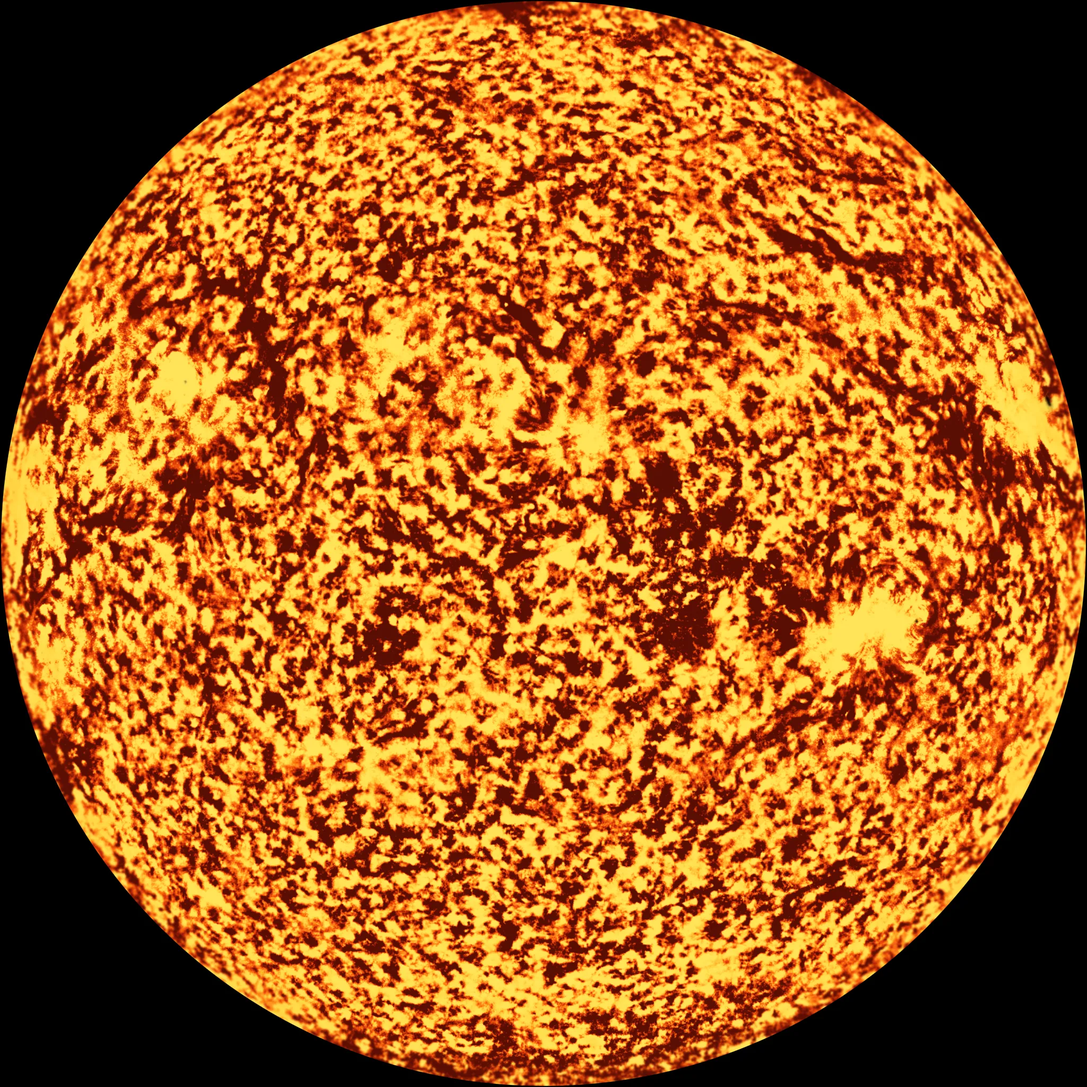
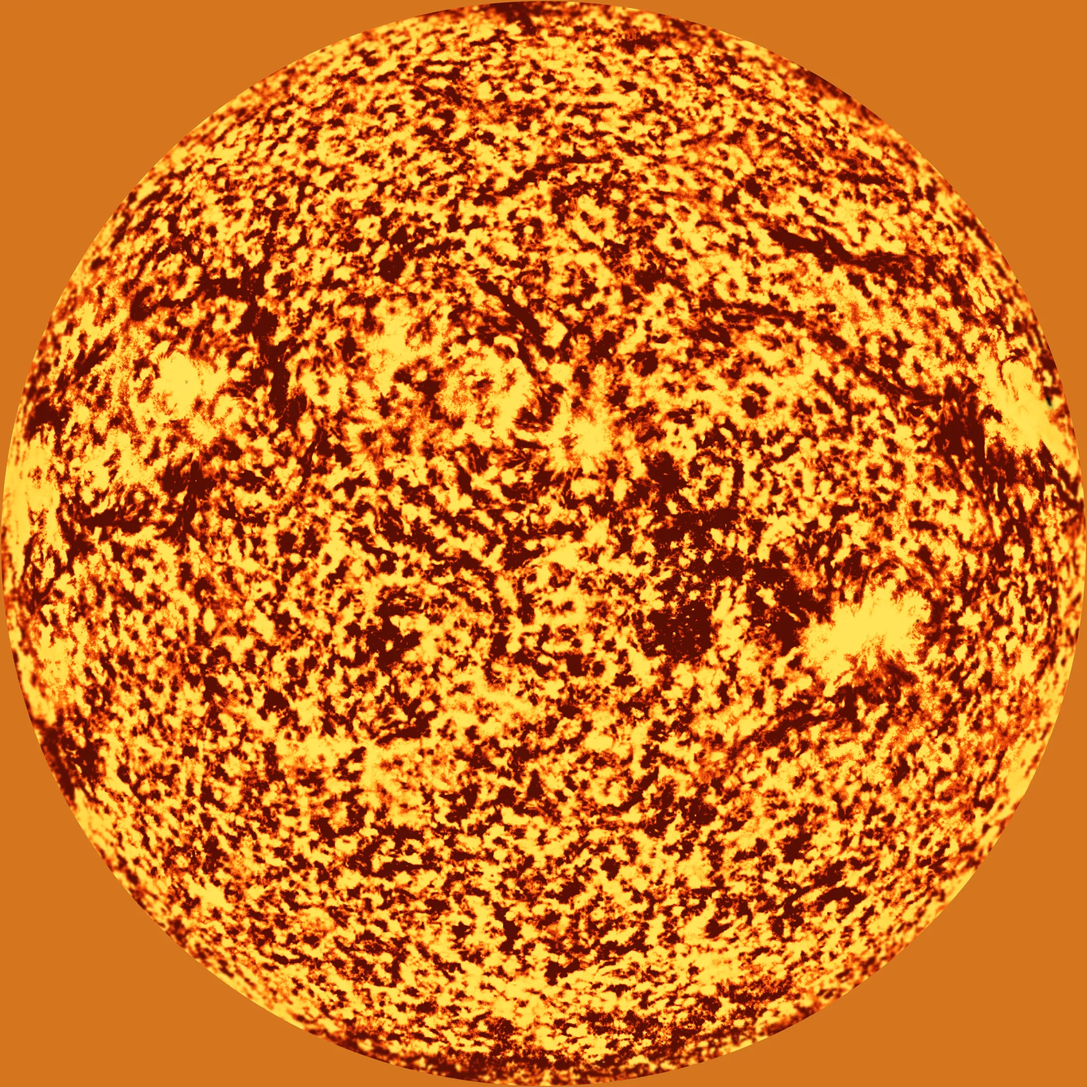
Sun: limb fill so the cap never samples black; 72s surface rotation; boiling fibrils, flickering plage, livelier prominences; SW cache bump

diff --git a/a/ms23.js b/a/ms23.js
@@ -1,6 +1,6 @@
-(()=>{var F=`#ifdef GL_FRAGMENT_PRECISION_HIGH
+(()=>{var B=`#ifdef GL_FRAGMENT_PRECISION_HIGH
 precision highp float;
 #else
 precision mediump float;
 #endif
-`,q="attribute vec3 p;attribute vec2 t;uniform mat4 M,P;varying vec2 u;varying vec3 pm,w,nw;void main(){vec4 q=M*vec4(p,1.);w=q.xyz;pm=p;nw=mat3(M)*p;u=t;gl_Position=P*q;}",ue=F+"varying vec2 u;varying vec3 pm,w,nw;uniform sampler2D T,NX,NY;uniform float hn,rl;uniform vec3 S,E;uniform mat3 RM;void main(){vec3 R=normalize(pm);vec3 c=texture2D(T,u).rgb;vec3 Np=R;if(hn>.5){vec3 e=normalize(vec3(R.z,0.,-R.x)+vec3(1e-4,0.,0.));vec3 nn=cross(R,e);float gx=(texture2D(NX,u).r*2.-1.)*.3*rl,gy=(texture2D(NY,u).r*2.-1.)*.3*rl;Np=normalize(R-gx*e-gy*nn);}vec3 Ng=normalize(RM*R),Nw=normalize(RM*Np);vec3 L=normalize(S-w),V=normalize(E-w);float d0=dot(Ng,L),d=dot(Nw,L);float lam=max(d,0.);float mu=max(dot(Nw,V),0.)+.03;float ls=2.*lam/(lam+mu);float li=mix(lam,ls,.6)*smoothstep(-.09,.07,d0);vec3 col=c*(li*1.18+.012)+vec3(.012,.017,.03)*(1.-smoothstep(-.12,.3,d0));gl_FragColor=vec4(col,1.);}",Q="float h31(vec3 p){p=fract(p*.1031);p+=dot(p,p.yzx+33.33);return fract((p.x+p.y)*p.z);}float vn(vec3 p){vec3 i=floor(p),f=fract(p);f=f*f*(3.-2.*f);return mix(mix(mix(h31(i),h31(i+vec3(1.,0.,0.)),f.x),mix(h31(i+vec3(0.,1.,0.)),h31(i+vec3(1.,1.,0.)),f.x),f.y),mix(mix(h31(i+vec3(0.,0.,1.)),h31(i+vec3(1.,0.,1.)),f.x),mix(h31(i+vec3(0.,1.,1.)),h31(i+vec3(1.,1.,1.)),f.x),f.y),f.z);}";var fe=F+"varying vec2 u;varying vec3 pm,w,nw;uniform vec3 E,C;uniform float tm,hn,rad,sd;uniform sampler2D T;"+Q+"vec3 pal(float x){x=clamp(x,0.,1.);vec3 a=mix(vec3(.55,.10,.02),vec3(.98,.38,.06),smoothstep(0.,.46,x));a=mix(a,vec3(1.,.62,.12),smoothstep(.45,.72,x));return mix(a,vec3(1.,.88,.32),smoothstep(.72,.96,x));}void main(){vec3 P=normalize(pm);vec3 N=normalize(w-C);vec3 Cd0=normalize(E-C);vec3 up0=abs(Cd0.y)<.93?vec3(0.,1.,0.):vec3(1.,0.,0.);vec3 rt=normalize(cross(up0,Cd0));vec3 Cd=sd>0.01?normalize(Cd0*cos(sd)+rt*sin(sd)):Cd0;float mu=dot(N,Cd);float muC=dot(N,Cd0);vec3 up=abs(Cd.y)<.93?vec3(0.,1.,0.):vec3(1.,0.,0.);vec3 X=normalize(cross(up,Cd));vec3 Y=cross(Cd,X);vec2 dsk=vec2(dot(N,X),dot(N,Y));float fb=vn(P*9.+vec3(0.,0.,tm*.02));if(mu<.7) fb=fb*.28+vn(P*22.+vec3(1.7,0.,0.))*.32+vn(P*48.+vec3(0.,2.1,tm*.015))*.25+vn(P*80.+vec3(3.1,1.2,0.))*.15;vec3 c=pal(.46+fb*.24);if(hn>.5){vec2 uv=dsk*(.5/max(rad,.5))+.5;uv.y=1.-uv.y;float inuv=step(0.001,uv.x)*step(uv.x,.999)*step(0.001,uv.y)*step(uv.y,.999);vec3 tx=texture2D(T,uv).rgb;float on=smoothstep(-.22,.62,mu)*inuv;tx*=1.+(vn(P*18.+vec3(tm*.03,0.,0.))-.5)*.05;c=mix(c,tx,on);}float q=1.-clamp(muC,0.,1.);c*=1.+vec3(.20,.16,.04)*q;c+=vec3(1.,.82,.28)*pow(q,2.6)*.5+vec3(1.,.7,.18)*pow(q,8.)*.32;c=c/(vec3(1.)+c*.12);c=min(c,vec3(1.,.94,.55));gl_FragColor=vec4(c,1.);}",me="attribute vec3 p;attribute vec2 t;uniform mat4 M,P;uniform vec3 C,X,Y;uniform float s;varying vec2 u;void main(){u=t*2.-1.;vec3 q=C+(X*u.x+Y*u.y)*s;gl_Position=P*M*vec4(q,1.);}",pe=F+"varying vec2 u;uniform float tm,al,sz,pe;"+Q+"float h11(float x){return fract(sin(x*127.1+1.7)*43758.545);}vec3 prom(float ang,float e,float fi){float T=17.+fi*9.;float ph=tm/T+fi*.37;float cy=floor(ph);float f=fract(ph);float on=step(.4,h11(cy*3.1+fi*11.3));float a0=h11(cy*5.7+fi*2.9)*6.2831853;float w=.12+.1*h11(cy*1.9+fi);float H=.15+.3*h11(cy*7.3+fi*4.1);float env=smoothstep(0.,.22,f)*(1.-smoothstep(.62,1.,f));float grow=.35+.65*smoothstep(0.,.55,f);float da=mod(ang-a0+3.14159265,6.2831853)-3.14159265;float x=da/w;float ax=abs(x);if(ax>1.2)return vec3(0.);float y=max(H*grow*(1.-x*x),.001);float ins=step(ax,1.)*step(0.,e);float th=.011+.016*(1.-ax)+.01*env;float band=(1.-smoothstep(0.,th,abs(e-y)))*ins;float fill=(1.-smoothstep(0.,y,e))*ins*.3*(1.-ax);float strand=.55+.45*vn(vec3(da*55.,e*38.,tm*.35+fi));float foot=exp(-max(e,0.)*22.)*exp(-pow((ax-1.)*w*9.,2.))*env;return (vec3(1.,.32,.1)*(band*1.5*strand+fill)+vec3(1.,.82,.55)*foot*(.65+.35*sin(tm*8.+fi)))*env*on;}void main(){float rr=length(u)*sz;float e=rr-1.;if(e<-.03){gl_FragColor=vec4(0.);return;}float ang=atan(u.y,u.x);vec2 ca=vec2(cos(ang),sin(ang));float glow=exp(-e*2.6)*.6+exp(-e*.75)*.15+exp(-e*9.)*.55;float n1=vn(vec3(ca*2.2,tm*.05)),n2=vn(vec3(ca*5.+7.,tm*.09)),n3=vn(vec3(ca*13.+3.,tm*.16));float ray=pow(clamp(n1*.5+n2*.35+n3*.25,0.,1.),2.4)*2.2;float fl=.82+.18*sin(tm*.9+n2*12.);glow+=ray*fl*(exp(-e*1.1)*.45+exp(-e*.35)*.1);vec3 col=vec3(1.,.64,.24)*glow+vec3(1.,.9,.7)*exp(-e*14.)*.3;if(e<1.15&&pe>.5){col+=prom(ang,e,0.)+prom(ang,e,1.)+prom(ang,e,2.)+prom(ang,e,3.);}col*=smoothstep(.0,.06,e+.03)*smoothstep(1.,.8,length(u))*al;gl_FragColor=vec4(col,max(col.r,max(col.g,col.b)));}",j=4.6,l=null,I=null,U=null,D=null,P=!1,y=null,g=null,A=null,w=2,h=16.7,L=0,C=0,K=new URLSearchParams(location.search),de=K.get("dprcap")?Math.max(1,Math.min(3,+K.get("dprcap")||2)):0,ee=()=>de||w,te=e=>{if(L){let n=e-L;n<100&&(h=h*.93+n*.07)}L=e,h>24?++C>45&&w>1&&(w=Math.max(1,w-.25),C=0,h=16.7):C=0},N=(e,n,t)=>{let r=e.createProgram(),o=!0,s={p:r,bad:!1};for(let[u,m]of[[e.VERTEX_SHADER,n],[e.FRAGMENT_SHADER,t]]){let x=e.createShader(u);if(e.shaderSource(x,m),e.compileShader(x),!e.getShaderParameter(x,e.COMPILE_STATUS)){o=!1;try{console.warn("ms23 shader",e.getShaderInfoLog(x))}catch(S){}}e.attachShader(r,x)}if(e.linkProgram(r),e.getProgramParameter(r,e.LINK_STATUS)||(o=!1),!o)return s.bad=!0,s;let f=e.getProgramParameter(r,e.ACTIVE_UNIFORMS);for(let u=0;u<f;u++){let m=e.getActiveUniform(r,u);s[m.name]=e.getUniformLocation(r,m.name)}return s.ap=e.getAttribLocation(r,"p"),s.at=e.getAttribLocation(r,"t"),s},R=(e,n,t)=>{let r=e.createBuffer(),o=t?e.ELEMENT_ARRAY_BUFFER:e.ARRAY_BUFFER;return e.bindBuffer(o,r),e.bufferData(o,n,e.STATIC_DRAW),r},G=e=>{l=e,I=N(e,q,ue),U=N(e,q,fe),D=N(e,me,pe);let n=128,t=64,r=[],o=[];for(let s=0;s<=t;s++){let f=Math.PI/2-s*Math.PI/t;for(let u=0;u<=n;u++){let m=-Math.PI+u*2*Math.PI/n;r.push(Math.cos(f)*Math.sin(m),Math.sin(f),Math.cos(f)*Math.cos(m),u/n,s/t)}}for(let s=0;s<t;s++)for(let f=0;f<n;f++){let u=s*(n+1)+f,m=u+n+1;o.push(u,m,u+1,u+1,m,m+1)}y={v:R(e,new Float32Array(r)),i:R(e,new Uint16Array(o),!0),n:o.length},g={v:R(e,new Float32Array([0,0,0,0,0,0,0,0,1,0,0,0,0,1,1,0,0,0,0,1])),i:R(e,new Uint16Array([0,1,2,0,2,3]),!0)};try{A=e.getExtension("EXT_texture_filter_anisotropic")||e.getExtension("WEBKIT_EXT_texture_filter_anisotropic")}catch(s){A=null}(I.bad||U.bad||D.bad)&&(P=!0);try{i.im&&Y(e)}catch(s){}},O=(e,n,t)=>{e.bindBuffer(e.ARRAY_BUFFER,t.v),e.enableVertexAttribArray(n.ap),e.vertexAttribPointer(n.ap,3,e.FLOAT,!1,20,0),n.at>=0&&(e.enableVertexAttribArray(n.at),e.vertexAttribPointer(n.at,2,e.FLOAT,!1,20,12)),e.bindBuffer(e.ELEMENT_ARRAY_BUFFER,t.i)},B=(e,n)=>{e.disableVertexAttribArray(n.ap),n.at>=0&&e.disableVertexAttribArray(n.at)},v={base:{t:null,st:0,url:"a/tx/moon.webp",mip:!1},m2:{t:null,st:0,url:"a/tx/moon/m2.webp",mip:!0},hd:{t:null,st:0,url:"a/tx/moon/hd.webp",mip:!0},nx:{t:null,st:0,url:"a/tx/moon/nx.webp",mip:!0},ny:{t:null,st:0,url:"a/tx/moon/ny.webp",mip:!0}},$=0;window.__moonTexBytes=0;var _=e=>{let n=v[e];if(n.st||!l)return;n.st=1;let t=l,r=new Image;r.decoding="async",r.crossOrigin="anonymous",r.onload=()=>{let o=t.createTexture();t.activeTexture(t.TEXTURE0),t.bindTexture(t.TEXTURE_2D,o),t.pixelStorei(t.UNPACK_FLIP_Y_WEBGL,!1),t.pixelStorei(t.UNPACK_PREMULTIPLY_ALPHA_WEBGL,!1),t.texImage2D(t.TEXTURE_2D,0,t.RGBA,t.RGBA,t.UNSIGNED_BYTE,r),t.texParameteri(t.TEXTURE_2D,t.TEXTURE_WRAP_S,n.mip?t.REPEAT:t.CLAMP_TO_EDGE),t.texParameteri(t.TEXTURE_2D,t.TEXTURE_WRAP_T,t.CLAMP_TO_EDGE),n.mip?(t.generateMipmap(t.TEXTURE_2D),t.texParameteri(t.TEXTURE_2D,t.TEXTURE_MIN_FILTER,t.LINEAR_MIPMAP_LINEAR),A&&t.texParameterf(t.TEXTURE_2D,A.TEXTURE_MAX_ANISOTROPY_EXT,4)):t.texParameteri(t.TEXTURE_2D,t.TEXTURE_MIN_FILTER,t.LINEAR),t.texParameteri(t.TEXTURE_2D,t.TEXTURE_MAG_FILTER,t.LINEAR),n.t=o,n.st=2,window.__moonTex=Object.keys(v).filter(s=>v[s].st===2);try{window.__spaceRedraw&&window.__spaceRedraw()}catch(s){}},r.onerror=()=>{n.st=3},r.src=n.url;try{fetch(n.url,{method:"HEAD"}).then(o=>{$+=+(o.headers.get("content-length")||0),window.__moonTexBytes=$}).catch(()=>{})}catch(o){}},T=e=>v[e].st===2&&!!v[e].t,i={t:null,st:0,date:"",json:null,im:null},J={ru:["января","февраля","марта","апреля","мая","июня","июля","августа","сентября","октября","ноября","декабря"],uk:["січня","лютого","березня","квітня","травня","червня","липня","серпня","вересня","жовтня","листопада","грудня"],en:["January","February","March","April","May","June","July","August","September","October","November","December"]},le=(e,n)=>{let t=(e||"").slice(0,10).split("-");if(t.length<3)return e||"";let r=t[0],o=Math.max(1,Math.min(12,+t[1]))-1,s=String(+t[2]),f=(J[n]||J.ru)[o];return`${s} ${f} ${r}`},ve=(e,n)=>{let t=le(n,e);return e==="uk"?`Плями — знімок NASA SDO від ${t}`:e==="en"?`Sunspots — NASA SDO image from ${t}`:`Пятна — снимок NASA SDO от ${t}`},xe=()=>{try{let e=(document.documentElement.lang||"ru").slice(0,2);return e==="uk"||e==="en"?e:"ru"}catch(e){return"ru"}},X=()=>{let e=i.json&&(i.json.date||i.json.utc)||i.date;if(!e)return;let n=document.querySelector('.body23[data-k="sun"]');if(!n)return;let t=n.querySelector(".sun-sdo");if(!t){t=document.createElement("div"),t.className="sun-sdo",t.setAttribute("data-r","sdo"),t.style.cssText="color:#9aa4b5;font-size:12px;line-height:1.4;margin-top:8px";let r=n.querySelector(".b23-desc");r&&r.parentNode?r.parentNode.insertBefore(t,r.nextSibling):n.appendChild(t)}t.textContent=ve(xe(),e)},Y=e=>{if(i.st===2||!i.im||!i.im.complete||!i.im.naturalWidth)return;let n=e.createTexture();e.activeTexture(e.TEXTURE0),e.bindTexture(e.TEXTURE_2D,n),e.pixelStorei(e.UNPACK_FLIP_Y_WEBGL,!1),e.pixelStorei(e.UNPACK_PREMULTIPLY_ALPHA_WEBGL,!1),e.texImage2D(e.TEXTURE_2D,0,e.RGBA,e.RGBA,e.UNSIGNED_BYTE,i.im),e.texParameteri(e.TEXTURE_2D,e.TEXTURE_WRAP_S,e.CLAMP_TO_EDGE),e.texParameteri(e.TEXTURE_2D,e.TEXTURE_WRAP_T,e.CLAMP_TO_EDGE),e.texParameteri(e.TEXTURE_2D,e.TEXTURE_MIN_FILTER,e.LINEAR),e.texParameteri(e.TEXTURE_2D,e.TEXTURE_MAG_FILTER,e.LINEAR),i.t=n,i.st=2,X();try{window.__spaceRedraw&&window.__spaceRedraw()}catch(t){}},W=()=>{if(setInterval(X,1200),i.st)return;i.st=1;let e=n=>{i.json=n||{},i.date=n&&(n.date||n.utc)||"",window.__sunToday=i.json,X();let t=new Image;t.decoding="async",t.crossOrigin="anonymous",t.onload=()=>{i.im=t,l&&Y(l)},t.onerror=()=>{i.st=3},t.src="a/sun_today.webp?d="+encodeURIComponent(i.date||String(Date.now()))};try{fetch("a/sun_today.json?t="+Date.now(),{cache:"no-store"}).then(n=>n.ok?n.json():{}).then(e).catch(()=>e({}))}catch(n){i.st=3}},Z=()=>(l&&i.im&&i.st!==2&&i.st!==3&&Y(l),i.st===2&&!!i.t),Ee=e=>{let n=Math.hypot(e[0],e[1],e[2])||1;return new Float32Array([e[0]/n,e[1]/n,e[2]/n,e[4]/n,e[5]/n,e[6]/n,e[8]/n,e[9]/n,e[10]/n])},_e=performance.now(),ne=()=>(performance.now()-_e)/1e3;function re(e,n){if(l||G(e),P||l!==e)return!1;te(performance.now()),_("base"),(n.r>22||n.foc)&&_("m2"),(n.r>64||n.foc)&&(_("hd"),_("nx"),_("ny"));let t=T("hd")?v.hd:T("m2")?v.m2:T("base")?v.base:null;if(!t)return!1;let r=T("nx")&&T("ny"),o=I;return e.useProgram(o.p),O(e,o,y),e.uniformMatrix4fv(o.M,!1,n.M),e.uniformMatrix4fv(o.P,!1,n.VP),e.uniformMatrix3fv(o.RM,!1,Ee(n.M)),e.uniform3fv(o.S,n.sun),e.uniform3fv(o.E,n.eye),e.uniform1f(o.hn,r?1:0),e.uniform1f(o.rl,1.6),e.uniform1i(o.T,0),e.uniform1i(o.NX,1),e.uniform1i(o.NY,2),e.activeTexture(e.TEXTURE0),e.bindTexture(e.TEXTURE_2D,t.t),r&&(e.activeTexture(e.TEXTURE1),e.bindTexture(e.TEXTURE_2D,v.nx.t),e.activeTexture(e.TEXTURE2),e.bindTexture(e.TEXTURE_2D,v.ny.t)),e.drawElements(e.TRIANGLES,y.n,e.UNSIGNED_SHORT,0),B(e,o),e.activeTexture(e.TEXTURE0),!0}function oe(e,n){if(l||G(e),P||l!==e)return!1;te(performance.now());let t=U;e.useProgram(t.p),O(e,t,y),e.uniformMatrix4fv(t.M,!1,n.M),e.uniformMatrix4fv(t.P,!1,n.VP),e.uniform3fv(t.E,n.eye),e.uniform3f(t.C,n.M[12],n.M[13],n.M[14]),e.uniform1f(t.tm,ne()),e.uniform1f(t.hn,Z()?1:0),e.uniform1f(t.rad,i.json&&i.json.disc||.998);let r=window.__sunCapSide;return e.uniform1f(t.sd,r===!0?1.22:typeof r=="number"?r:0),e.uniform1i(t.T,0),Z()&&(e.activeTexture(e.TEXTURE0),e.bindTexture(e.TEXTURE_2D,i.t)),e.drawElements(e.TRIANGLES,y.n,e.UNSIGNED_SHORT,0),B(e,t),!0}function ae(e,n){if(l||G(e),P||l!==e)return!1;let t=D;return e.useProgram(t.p),O(e,t,g),e.uniform3fv(t.C,n.C),e.uniform3fv(t.X,n.X),e.uniform3fv(t.Y,n.Y),e.uniform1f(t.s,n.R*j),e.uniform1f(t.sz,j),e.uniform1f(t.pe,n.r<6?0:1),e.uniform1f(t.tm,ne()),e.uniform1f(t.al,1),e.uniformMatrix4fv(t.M,!1,n.V),e.uniformMatrix4fv(t.P,!1,n.P),e.blendFunc(e.ONE,e.ONE),e.depthMask(!1),e.drawElements(e.TRIANGLES,6,e.UNSIGNED_SHORT,0),e.depthMask(!0),e.blendFunc(e.ONE,e.ONE_MINUS_SRC_ALPHA),B(e,t),!0}var ie=!1,c=window;function z(){if(ie)return;let e=document.querySelector(".sp23-cv");if(!e||!e.parentElement){let a=new MutationObserver(()=>{document.querySelector(".sp23-cv")&&(a.disconnect(),z())});a.observe(document.documentElement,{childList:!0,subtree:!0});return}ie=!0;let n=e.parentElement,t=new Set,r=null,o=null,s=()=>c.__spaceMode&&c.__spaceMode!=="map",f=a=>{let p=n.getBoundingClientRect();return[a.clientX-p.left,a.clientY-p.top]},u=a=>{if(a.replayed)return;a.replayed=!0;let p=a.down,d=new PointerEvent("pointerdown",{pointerId:p.pointerId,pointerType:p.pointerType,isPrimary:p.isPrimary,clientX:p.clientX,clientY:p.clientY,bubbles:!0,cancelable:!0,pressure:p.pressure});d.__ms=!0,e.dispatchEvent(d)},m=()=>{let a=c.__selNow&&c.__selNow();a&&a.kind==="body"&&a.id&&c.__openBodyCard&&(c.__openBodyCard(),c.__cardDbl=(c.__cardDbl||0)+1)},x=()=>{c.__closeBodyCard&&c.__closeBodyCard()};n.addEventListener("pointerdown",a=>{if(a.target!==e||a.__ms||!s())return;if(t.add(a.pointerId),t.size>1){r&&u(r),r=null,o=null;return}let[p,d]=f(a),E=performance.now();r={id:a.pointerId,x0:a.clientX,y0:a.clientY,t0:E,sw:!1,replayed:!1,down:a},o&&E-o.t<280&&Math.hypot(p-o.x,d-o.y)<32&&(r.sw=!0,a.stopImmediatePropagation(),a.preventDefault())},!0),n.addEventListener("pointermove",a=>{r&&r.sw&&!r.replayed&&a.pointerId===r.id&&Math.hypot(a.clientX-r.x0,a.clientY-r.y0)>10&&u(r)},!0);let S=(a,p)=>{t.delete(a.pointerId);let d=r;if(!d||d.id!==a.pointerId)return;r=null;let E=performance.now(),ce=Math.hypot(a.clientX-d.x0,a.clientY-d.y0)>10,V=!p&&!ce&&E-d.t0<350&&t.size===0;if(d.sw&&!d.replayed){a.stopImmediatePropagation(),o=null,V&&m();return}if(d.replayed){o=null;return}if(V){let[k,H]=f(a);o={t:E,x:k,y:H},window.setTimeout(()=>{try{if(c.__spaceMode!=="focus")return;let M=c.__spaceFocusK&&c.__spaceFocusK(),b=M&&c.__spacePos&&c.__spacePos()[M];b&&Math.hypot(k-b[0],H-b[1])<=b[2]*1.05&&x()}catch(M){}},0)}else o=null};n.addEventListener("pointerup",a=>S(a,!1),!0),n.addEventListener("pointercancel",a=>S(a,!0),!0)}function se(e,n){let t=c.__spaceSwipe,r=!!t&&t!==c.__ms23sw&&t[1]===e;c.__ms23sw=t,r&&n?c.__openBodyCard&&c.__openBodyCard():c.__closeBodyCard&&c.__closeBodyCard()}window.__ms23={moon:re,sun:oe,corona:ae,dpr:ee,afterPick:se,v:2};W&&W();z();})();
+`,$="attribute vec3 p;attribute vec2 t;uniform mat4 M,P;varying vec2 u;varying vec3 pm,w,nw;void main(){vec4 q=M*vec4(p,1.);w=q.xyz;pm=p;nw=mat3(M)*p;u=t;gl_Position=P*q;}",me=B+"varying vec2 u;varying vec3 pm,w,nw;uniform sampler2D T,NX,NY;uniform float hn,rl;uniform vec3 S,E;uniform mat3 RM;void main(){vec3 R=normalize(pm);vec3 c=texture2D(T,u).rgb;vec3 Np=R;if(hn>.5){vec3 e=normalize(vec3(R.z,0.,-R.x)+vec3(1e-4,0.,0.));vec3 nn=cross(R,e);float gx=(texture2D(NX,u).r*2.-1.)*.3*rl,gy=(texture2D(NY,u).r*2.-1.)*.3*rl;Np=normalize(R-gx*e-gy*nn);}vec3 Ng=normalize(RM*R),Nw=normalize(RM*Np);vec3 L=normalize(S-w),V=normalize(E-w);float d0=dot(Ng,L),d=dot(Nw,L);float lam=max(d,0.);float mu=max(dot(Nw,V),0.)+.03;float ls=2.*lam/(lam+mu);float li=mix(lam,ls,.6)*smoothstep(-.09,.07,d0);vec3 col=c*(li*1.18+.012)+vec3(.012,.017,.03)*(1.-smoothstep(-.12,.3,d0));gl_FragColor=vec4(col,1.);}",te="float h31(vec3 p){p=fract(p*.1031);p+=dot(p,p.yzx+33.33);return fract((p.x+p.y)*p.z);}float vn(vec3 p){vec3 i=floor(p),f=fract(p);f=f*f*(3.-2.*f);return mix(mix(mix(h31(i),h31(i+vec3(1.,0.,0.)),f.x),mix(h31(i+vec3(0.,1.,0.)),h31(i+vec3(1.,1.,0.)),f.x),f.y),mix(mix(h31(i+vec3(0.,0.,1.)),h31(i+vec3(1.,0.,1.)),f.x),mix(h31(i+vec3(0.,1.,1.)),h31(i+vec3(1.,1.,1.)),f.x),f.y),f.z);}";var pe=B+"varying vec2 u;varying vec3 pm,w,nw;uniform vec3 E,C,Cp,Up;uniform float tm,hn,rad,sp;uniform sampler2D T;"+te+"vec3 pal(float x){x=clamp(x,0.,1.);vec3 a=mix(vec3(.55,.10,.02),vec3(.98,.38,.06),smoothstep(0.,.46,x));a=mix(a,vec3(1.,.62,.12),smoothstep(.45,.72,x));return mix(a,vec3(1.,.88,.32),smoothstep(.72,.96,x));}vec3 rA(vec3 v,vec3 a,float g){float c=cos(g),s=sin(g);return v*c+cross(a,v)*s+a*dot(a,v)*(1.-c);}void main(){vec3 P=normalize(pm);vec3 N=normalize(w-C);vec3 Cd0=normalize(E-C);float muC=dot(N,Cd0);vec3 Upn=normalize(Up);vec3 Cd=rA(normalize(Cp),Upn,sp);float mu=dot(N,Cd);vec3 ref=abs(dot(Upn,Cd))>.93?vec3(1.,0.,0.):Upn;vec3 X=normalize(cross(ref,Cd));vec3 Y=cross(Cd,X);vec2 dsk=vec2(dot(N,X),dot(N,Y));vec2 fl=vec2(vn(P*3.1+vec3(tm*.12,0.,0.)),vn(P*3.1+vec3(5.2,tm*.09,0.)));vec3 Pw=normalize(P+vec3((fl-0.5)*0.18,0.));float fb=vn(Pw*12.+vec3(0.,0.,tm*.08));if(mu<.4) fb=fb*.28+vn(Pw*28.+vec3(1.7,tm*.07,0.))*.32+vn(Pw*56.+vec3(0.,2.1,tm*.13))*.25+vn(Pw*90.+vec3(3.1,tm*.05,0.))*.15;vec3 c=pal(.36+fb*.42);if(hn>.5){vec2 uv=dsk*(.5/max(rad*.995,.5))+.5;uv.y=1.-uv.y;uv+=(fl-0.5)*0.006;float inuv=step(0.002,uv.x)*step(uv.x,.998)*step(0.002,uv.y)*step(uv.y,.998);vec3 tx=texture2D(T,uv).rgb;float hi=smoothstep(.45,.85,dot(tx,vec3(.35,.5,.15)));tx*=mix(1.,1.+(vn(P*7.+vec3(tm*.28,0.,0.))-0.5)*.12,hi);c=mix(c,tx,smoothstep(-.40,.02,mu)*inuv);}float q=1.-clamp(muC,0.,1.);c*=1.+vec3(.20,.16,.04)*q;c+=vec3(1.,.82,.28)*pow(q,2.6)*.5+vec3(1.,.7,.18)*pow(q,8.)*.32;c=c/(vec3(1.)+c*.12);c=min(c,vec3(1.,.94,.55));gl_FragColor=vec4(c,1.);}",de="attribute vec3 p;attribute vec2 t;uniform mat4 M,P;uniform vec3 C,X,Y;uniform float s;varying vec2 u;void main(){u=t*2.-1.;vec3 q=C+(X*u.x+Y*u.y)*s;gl_Position=P*M*vec4(q,1.);}",le=B+"varying vec2 u;uniform float tm,al,sz,pe;"+te+"float h11(float x){return fract(sin(x*127.1+1.7)*43758.545);}vec3 prom(float ang,float e,float fi){float T=17.+fi*9.;float ph=tm/T+fi*.37;float cy=floor(ph);float f=fract(ph);float on=step(.22,h11(cy*3.1+fi*11.3));float a0=h11(cy*5.7+fi*2.9)*6.2831853;float w=.12+.1*h11(cy*1.9+fi);float H=.18+.32*h11(cy*7.3+fi*4.1);float env=smoothstep(0.,.22,f)*(1.-smoothstep(.62,1.,f));float grow=.35+.65*smoothstep(0.,.55,f);float da=mod(ang-a0+3.14159265,6.2831853)-3.14159265;float x=da/w;float ax=abs(x);if(ax>1.2)return vec3(0.);float y=max(H*grow*(1.-x*x),.001);float ins=step(ax,1.)*step(0.,e);float th=.011+.016*(1.-ax)+.01*env;float band=(1.-smoothstep(0.,th,abs(e-y)))*ins;float fill=(1.-smoothstep(0.,y,e))*ins*.3*(1.-ax);float strand=.55+.45*vn(vec3(da*55.,e*38.,tm*.35+fi));float foot=exp(-max(e,0.)*22.)*exp(-pow((ax-1.)*w*9.,2.))*env;return (vec3(1.,.32,.1)*(band*1.5*strand+fill)+vec3(1.,.82,.55)*foot*(.65+.35*sin(tm*8.+fi)))*env*on;}void main(){float rr=length(u)*sz;float e=rr-1.;if(e<-.03){gl_FragColor=vec4(0.);return;}float ang=atan(u.y,u.x);vec2 ca=vec2(cos(ang),sin(ang));float glow=exp(-e*2.6)*.6+exp(-e*.75)*.15+exp(-e*9.)*.55;float n1=vn(vec3(ca*2.2,tm*.07)),n2=vn(vec3(ca*5.+7.,tm*.13)),n3=vn(vec3(ca*13.+3.,tm*.22));float ray=pow(clamp(n1*.5+n2*.35+n3*.25,0.,1.),2.4)*2.2;float fl=.82+.18*sin(tm*.9+n2*12.);glow+=ray*fl*(exp(-e*1.1)*.45+exp(-e*.35)*.1);vec3 col=vec3(1.,.64,.24)*glow+vec3(1.,.9,.7)*exp(-e*14.)*.3;if(e<1.15&&pe>.5){col+=prom(ang,e,0.)+prom(ang,e,1.)+prom(ang,e,2.)+prom(ang,e,3.);}col*=smoothstep(.0,.06,e+.03)*smoothstep(1.,.8,length(u))*al;gl_FragColor=vec4(col,max(col.r,max(col.g,col.b)));}",J=4.6,l=null,D=null,X=null,F=null,S=!1,y=null,ne=null,M=null,R=2,h=16.7,N=0,U=0,Z=new URLSearchParams(location.search),ve=Z.get("dprcap")?Math.max(1,Math.min(3,+Z.get("dprcap")||2)):0,re=()=>ve||R,oe=e=>{if(N){let n=e-N;n<100&&(h=h*.93+n*.07)}N=e,h>24?++U>45&&R>1&&(R=Math.max(1,R-.25),U=0,h=16.7):U=0},I=(e,n,t)=>{let r=e.createProgram(),o=!0,s={p:r,bad:!1};for(let[c,m]of[[e.VERTEX_SHADER,n],[e.FRAGMENT_SHADER,t]]){let x=e.createShader(c);if(e.shaderSource(x,m),e.compileShader(x),!e.getShaderParameter(x,e.COMPILE_STATUS)){o=!1;try{console.warn("ms23 shader",e.getShaderInfoLog(x))}catch(L){}}e.attachShader(r,x)}if(e.linkProgram(r),e.getProgramParameter(r,e.LINK_STATUS)||(o=!1),!o)return s.bad=!0,s;let f=e.getProgramParameter(r,e.ACTIVE_UNIFORMS);for(let c=0;c<f;c++){let m=e.getActiveUniform(r,c);s[m.name]=e.getUniformLocation(r,m.name)}return s.ap=e.getAttribLocation(r,"p"),s.at=e.getAttribLocation(r,"t"),s},w=(e,n,t)=>{let r=e.createBuffer(),o=t?e.ELEMENT_ARRAY_BUFFER:e.ARRAY_BUFFER;return e.bindBuffer(o,r),e.bufferData(o,n,e.STATIC_DRAW),r},Y=e=>{l=e,D=I(e,$,me),X=I(e,$,pe),F=I(e,de,le);let n=128,t=64,r=[],o=[];for(let s=0;s<=t;s++){let f=Math.PI/2-s*Math.PI/t;for(let c=0;c<=n;c++){let m=-Math.PI+c*2*Math.PI/n;r.push(Math.cos(f)*Math.sin(m),Math.sin(f),Math.cos(f)*Math.cos(m),c/n,s/t)}}for(let s=0;s<t;s++)for(let f=0;f<n;f++){let c=s*(n+1)+f,m=c+n+1;o.push(c,m,c+1,c+1,m,m+1)}y={v:w(e,new Float32Array(r)),i:w(e,new Uint16Array(o),!0),n:o.length},ne={v:w(e,new Float32Array([0,0,0,0,0,0,0,0,1,0,0,0,0,1,1,0,0,0,0,1])),i:w(e,new Uint16Array([0,1,2,0,2,3]),!0)};try{M=e.getExtension("EXT_texture_filter_anisotropic")||e.getExtension("WEBKIT_EXT_texture_filter_anisotropic")}catch(s){M=null}(D.bad||X.bad||F.bad)&&(S=!0);try{i.im&&V(e)}catch(s){}},z=(e,n,t)=>{e.bindBuffer(e.ARRAY_BUFFER,t.v),e.enableVertexAttribArray(n.ap),e.vertexAttribPointer(n.ap,3,e.FLOAT,!1,20,0),n.at>=0&&(e.enableVertexAttribArray(n.at),e.vertexAttribPointer(n.at,2,e.FLOAT,!1,20,12)),e.bindBuffer(e.ELEMENT_ARRAY_BUFFER,t.i)},W=(e,n)=>{e.disableVertexAttribArray(n.ap),n.at>=0&&e.disableVertexAttribArray(n.at)},v={base:{t:null,st:0,url:"a/tx/moon.webp",mip:!1},m2:{t:null,st:0,url:"a/tx/moon/m2.webp",mip:!0},hd:{t:null,st:0,url:"a/tx/moon/hd.webp",mip:!0},nx:{t:null,st:0,url:"a/tx/moon/nx.webp",mip:!0},ny:{t:null,st:0,url:"a/tx/moon/ny.webp",mip:!0}},Q=0;window.__moonTexBytes=0;var _=e=>{let n=v[e];if(n.st||!l)return;n.st=1;let t=l,r=new Image;r.decoding="async",r.crossOrigin="anonymous",r.onload=()=>{let o=t.createTexture();t.activeTexture(t.TEXTURE0),t.bindTexture(t.TEXTURE_2D,o),t.pixelStorei(t.UNPACK_FLIP_Y_WEBGL,!1),t.pixelStorei(t.UNPACK_PREMULTIPLY_ALPHA_WEBGL,!1),t.texImage2D(t.TEXTURE_2D,0,t.RGBA,t.RGBA,t.UNSIGNED_BYTE,r),t.texParameteri(t.TEXTURE_2D,t.TEXTURE_WRAP_S,n.mip?t.REPEAT:t.CLAMP_TO_EDGE),t.texParameteri(t.TEXTURE_2D,t.TEXTURE_WRAP_T,t.CLAMP_TO_EDGE),n.mip?(t.generateMipmap(t.TEXTURE_2D),t.texParameteri(t.TEXTURE_2D,t.TEXTURE_MIN_FILTER,t.LINEAR_MIPMAP_LINEAR),M&&t.texParameterf(t.TEXTURE_2D,M.TEXTURE_MAX_ANISOTROPY_EXT,4)):t.texParameteri(t.TEXTURE_2D,t.TEXTURE_MIN_FILTER,t.LINEAR),t.texParameteri(t.TEXTURE_2D,t.TEXTURE_MAG_FILTER,t.LINEAR),n.t=o,n.st=2,window.__moonTex=Object.keys(v).filter(s=>v[s].st===2);try{window.__spaceRedraw&&window.__spaceRedraw()}catch(s){}},r.onerror=()=>{n.st=3},r.src=n.url;try{fetch(n.url,{method:"HEAD"}).then(o=>{Q+=+(o.headers.get("content-length")||0),window.__moonTexBytes=Q}).catch(()=>{})}catch(o){}},T=e=>v[e].st===2&&!!v[e].t,i={t:null,st:0,date:"",json:null,im:null},g={ru:["января","февраля","марта","апреля","мая","июня","июля","августа","сентября","октября","ноября","декабря"],uk:["січня","лютого","березня","квітня","травня","червня","липня","серпня","вересня","жовтня","листопада","грудня"],en:["January","February","March","April","May","June","July","August","September","October","November","December"]},xe=(e,n)=>{let t=(e||"").slice(0,10).split("-");if(t.length<3)return e||"";let r=t[0],o=Math.max(1,Math.min(12,+t[1]))-1,s=String(+t[2]),f=(g[n]||g.ru)[o];return`${s} ${f} ${r}`},Ee=(e,n)=>{let t=xe(n,e);return e==="uk"?`Плями — знімок NASA SDO від ${t}`:e==="en"?`Sunspots — NASA SDO image from ${t}`:`Пятна — снимок NASA SDO от ${t}`},_e=()=>{try{let e=(document.documentElement.lang||"ru").slice(0,2);return e==="uk"||e==="en"?e:"ru"}catch(e){return"ru"}},G=()=>{let e=i.json&&(i.json.date||i.json.utc)||i.date;if(!e)return;let n=document.querySelector('.body23[data-k="sun"]');if(!n)return;let t=n.querySelector(".sun-sdo");if(!t){t=document.createElement("div"),t.className="sun-sdo",t.setAttribute("data-r","sdo"),t.style.cssText="color:#9aa4b5;font-size:12px;line-height:1.4;margin-top:8px";let r=n.querySelector(".b23-desc");r&&r.parentNode?r.parentNode.insertBefore(t,r.nextSibling):n.appendChild(t)}t.textContent=Ee(_e(),e)},V=e=>{if(i.st===2||!i.im||!i.im.complete||!i.im.naturalWidth)return;let n=e.createTexture();e.activeTexture(e.TEXTURE0),e.bindTexture(e.TEXTURE_2D,n),e.pixelStorei(e.UNPACK_FLIP_Y_WEBGL,!1),e.pixelStorei(e.UNPACK_PREMULTIPLY_ALPHA_WEBGL,!1),e.texImage2D(e.TEXTURE_2D,0,e.RGBA,e.RGBA,e.UNSIGNED_BYTE,i.im),e.texParameteri(e.TEXTURE_2D,e.TEXTURE_WRAP_S,e.CLAMP_TO_EDGE),e.texParameteri(e.TEXTURE_2D,e.TEXTURE_WRAP_T,e.CLAMP_TO_EDGE),e.texParameteri(e.TEXTURE_2D,e.TEXTURE_MIN_FILTER,e.LINEAR),e.texParameteri(e.TEXTURE_2D,e.TEXTURE_MAG_FILTER,e.LINEAR),i.t=n,i.st=2,G();try{window.__spaceRedraw&&window.__spaceRedraw()}catch(t){}},k=()=>{if(setInterval(G,1200),i.st)return;i.st=1;let e=n=>{i.json=n||{},i.date=n&&(n.date||n.utc)||"",window.__sunToday=i.json,G();let t=new Image;t.decoding="async",t.crossOrigin="anonymous",t.onload=()=>{i.im=t,l&&V(l)},t.onerror=()=>{i.st=3},t.src="a/sun_today.webp?d="+encodeURIComponent(i.date||String(Date.now()))};try{fetch("a/sun_today.json?t="+Date.now(),{cache:"no-store"}).then(n=>n.ok?n.json():{}).then(e).catch(()=>e({}))}catch(n){i.st=3}},ee=()=>(l&&i.im&&i.st!==2&&i.st!==3&&V(l),i.st===2&&!!i.t),Te=e=>{let n=Math.hypot(e[0],e[1],e[2])||1;return new Float32Array([e[0]/n,e[1]/n,e[2]/n,e[4]/n,e[5]/n,e[6]/n,e[8]/n,e[9]/n,e[10]/n])},ye=performance.now(),P=()=>(performance.now()-ye)/1e3;function ae(e,n){if(l||Y(e),S||l!==e)return!1;oe(performance.now()),_("base"),(n.r>22||n.foc)&&_("m2"),(n.r>64||n.foc)&&(_("hd"),_("nx"),_("ny"));let t=T("hd")?v.hd:T("m2")?v.m2:T("base")?v.base:null;if(!t)return!1;let r=T("nx")&&T("ny"),o=D;return e.useProgram(o.p),z(e,o,y),e.uniformMatrix4fv(o.M,!1,n.M),e.uniformMatrix4fv(o.P,!1,n.VP),e.uniformMatrix3fv(o.RM,!1,Te(n.M)),e.uniform3fv(o.S,n.sun),e.uniform3fv(o.E,n.eye),e.uniform1f(o.hn,r?1:0),e.uniform1f(o.rl,1.6),e.uniform1i(o.T,0),e.uniform1i(o.NX,1),e.uniform1i(o.NY,2),e.activeTexture(e.TEXTURE0),e.bindTexture(e.TEXTURE_2D,t.t),r&&(e.activeTexture(e.TEXTURE1),e.bindTexture(e.TEXTURE_2D,v.nx.t),e.activeTexture(e.TEXTURE2),e.bindTexture(e.TEXTURE_2D,v.ny.t)),e.drawElements(e.TRIANGLES,y.n,e.UNSIGNED_SHORT,0),W(e,o),e.activeTexture(e.TEXTURE0),!0}var A=null,O=-1,be=72;window.__sunSpinReset=()=>{A=null,O=-1};function ie(e,n){if(l||Y(e),S||l!==e)return!1;oe(performance.now());let t=X;e.useProgram(t.p),z(e,t,y),e.uniformMatrix4fv(t.M,!1,n.M),e.uniformMatrix4fv(t.P,!1,n.VP),e.uniform3fv(t.E,n.eye),e.uniform3f(t.C,n.M[12],n.M[13],n.M[14]),e.uniform1f(t.tm,P()),e.uniform1f(t.hn,ee()?1:0),e.uniform1f(t.rad,i.json&&i.json.disc||.998);let r=n.M[4],o=n.M[5],s=n.M[6],f=Math.hypot(r,o,s)||1;A||(A=[n.eye[0]-n.M[12],n.eye[1]-n.M[13],n.eye[2]-n.M[14]],O=P());let c=window.__sunCapSide,m=c===!0?1.22:typeof c=="number"?c:0;return e.uniform3fv(t.Cp,A),e.uniform3f(t.Up,r/f,o/f,s/f),e.uniform1f(t.sp,(P()-O)*Math.PI*2/be+m),e.uniform1i(t.T,0),ee()&&(e.activeTexture(e.TEXTURE0),e.bindTexture(e.TEXTURE_2D,i.t)),e.drawElements(e.TRIANGLES,y.n,e.UNSIGNED_SHORT,0),W(e,t),!0}function se(e,n){if(l||Y(e),S||l!==e)return!1;let t=F;return e.useProgram(t.p),z(e,t,ne),e.uniform3fv(t.C,n.C),e.uniform3fv(t.X,n.X),e.uniform3fv(t.Y,n.Y),e.uniform1f(t.s,n.R*J),e.uniform1f(t.sz,J),e.uniform1f(t.pe,n.r<6?0:1),e.uniform1f(t.tm,P()),e.uniform1f(t.al,1),e.uniformMatrix4fv(t.M,!1,n.V),e.uniformMatrix4fv(t.P,!1,n.P),e.blendFunc(e.ONE,e.ONE),e.depthMask(!1),e.drawElements(e.TRIANGLES,6,e.UNSIGNED_SHORT,0),e.depthMask(!0),e.blendFunc(e.ONE,e.ONE_MINUS_SRC_ALPHA),W(e,t),!0}var ce=!1,u=window;function H(){if(ce)return;let e=document.querySelector(".sp23-cv");if(!e||!e.parentElement){let a=new MutationObserver(()=>{document.querySelector(".sp23-cv")&&(a.disconnect(),H())});a.observe(document.documentElement,{childList:!0,subtree:!0});return}ce=!0;let n=e.parentElement,t=new Set,r=null,o=null,s=()=>u.__spaceMode&&u.__spaceMode!=="map",f=a=>{let p=n.getBoundingClientRect();return[a.clientX-p.left,a.clientY-p.top]},c=a=>{if(a.replayed)return;a.replayed=!0;let p=a.down,d=new PointerEvent("pointerdown",{pointerId:p.pointerId,pointerType:p.pointerType,isPrimary:p.isPrimary,clientX:p.clientX,clientY:p.clientY,bubbles:!0,cancelable:!0,pressure:p.pressure});d.__ms=!0,e.dispatchEvent(d)},m=()=>{let a=u.__selNow&&u.__selNow();a&&a.kind==="body"&&a.id&&u.__openBodyCard&&(u.__openBodyCard(),u.__cardDbl=(u.__cardDbl||0)+1)},x=()=>{u.__closeBodyCard&&u.__closeBodyCard()};n.addEventListener("pointerdown",a=>{if(a.target!==e||a.__ms||!s())return;if(t.add(a.pointerId),t.size>1){r&&c(r),r=null,o=null;return}let[p,d]=f(a),E=performance.now();r={id:a.pointerId,x0:a.clientX,y0:a.clientY,t0:E,sw:!1,replayed:!1,down:a},o&&E-o.t<280&&Math.hypot(p-o.x,d-o.y)<32&&(r.sw=!0,a.stopImmediatePropagation(),a.preventDefault())},!0),n.addEventListener("pointermove",a=>{r&&r.sw&&!r.replayed&&a.pointerId===r.id&&Math.hypot(a.clientX-r.x0,a.clientY-r.y0)>10&&c(r)},!0);let L=(a,p)=>{t.delete(a.pointerId);let d=r;if(!d||d.id!==a.pointerId)return;r=null;let E=performance.now(),fe=Math.hypot(a.clientX-d.x0,a.clientY-d.y0)>10,q=!p&&!fe&&E-d.t0<350&&t.size===0;if(d.sw&&!d.replayed){a.stopImmediatePropagation(),o=null,q&&m();return}if(d.replayed){o=null;return}if(q){let[j,K]=f(a);o={t:E,x:j,y:K},window.setTimeout(()=>{try{if(u.__spaceMode!=="focus")return;let C=u.__spaceFocusK&&u.__spaceFocusK(),b=C&&u.__spacePos&&u.__spacePos()[C];b&&Math.hypot(j-b[0],K-b[1])<=b[2]*1.05&&x()}catch(C){}},0)}else o=null};n.addEventListener("pointerup",a=>L(a,!1),!0),n.addEventListener("pointercancel",a=>L(a,!0),!0)}function ue(e,n){let t=u.__spaceSwipe,r=!!t&&t!==u.__ms23sw&&t[1]===e;u.__ms23sw=t,r&&n?u.__openBodyCard&&u.__openBodyCard():u.__closeBodyCard&&u.__closeBodyCard()}window.__ms23={moon:ae,sun:ie,corona:se,dpr:re,afterPick:ue,v:2};k&&k();H();})();

diff --git a/sw.js b/sw.js
@@ -1,5 +1,5 @@
 /* Eklektik World app-shell cache. Live tiles and APIs are never cached. */
-const CACHE = 'eklektik-world-v23-sunreal2';
+const CACHE = 'eklektik-world-v23-sunreal3';
 const SHELL = [
   './',
   './index.html',

diff --git a/tools/sun_today.py b/tools/sun_today.py
@@ -430,10 +430,16 @@ def build(aia_im: Image.Image, hmi_im: Image.Image, out_w: int = 2048):
         return b
     w_edge = np.clip((rho - 0.93) / 0.06, 0, 1)
     w_edge = w_edge * w_edge * (3 - 2 * w_edge)
-    out = out * (1 - w_edge[..., None]) + blur_rgb(out, 1.4) * w_edge[..., None]
-    # 1px antialias only — no dark 'ring'. Interior stays at full color.
+    out = out * (1 - w_edge[..., None]) + blur_rgb(out, 1.6) * w_edge[..., None]
+    # Fill *outside* the disc with the mean limb color (not black). Bilinear
+    # samples at the cap edge and any slight UV warp then stay warm orange.
+    ring = (rho >= 0.955) & (rho <= 0.996)
+    if np.any(ring):
+        fill = out[ring].mean(axis=0).astype(np.float32)
+    else:
+        fill = np.array([0.82, 0.46, 0.12], dtype=np.float32)
     aa = np.clip((R_OUT - rho) / (1.25 / (out_w / 2.0)) + 0.5, 0, 1)
-    out = out * aa[..., None]
+    out = out * aa[..., None] + fill * (1.0 - aa)[..., None]
     out = np.clip(out, 0, 1)
     return (out * 255.0 + 0.5).astype(np.uint8), (cx_a, cy_a, r_a, r_src_a, R_OUT)
 
